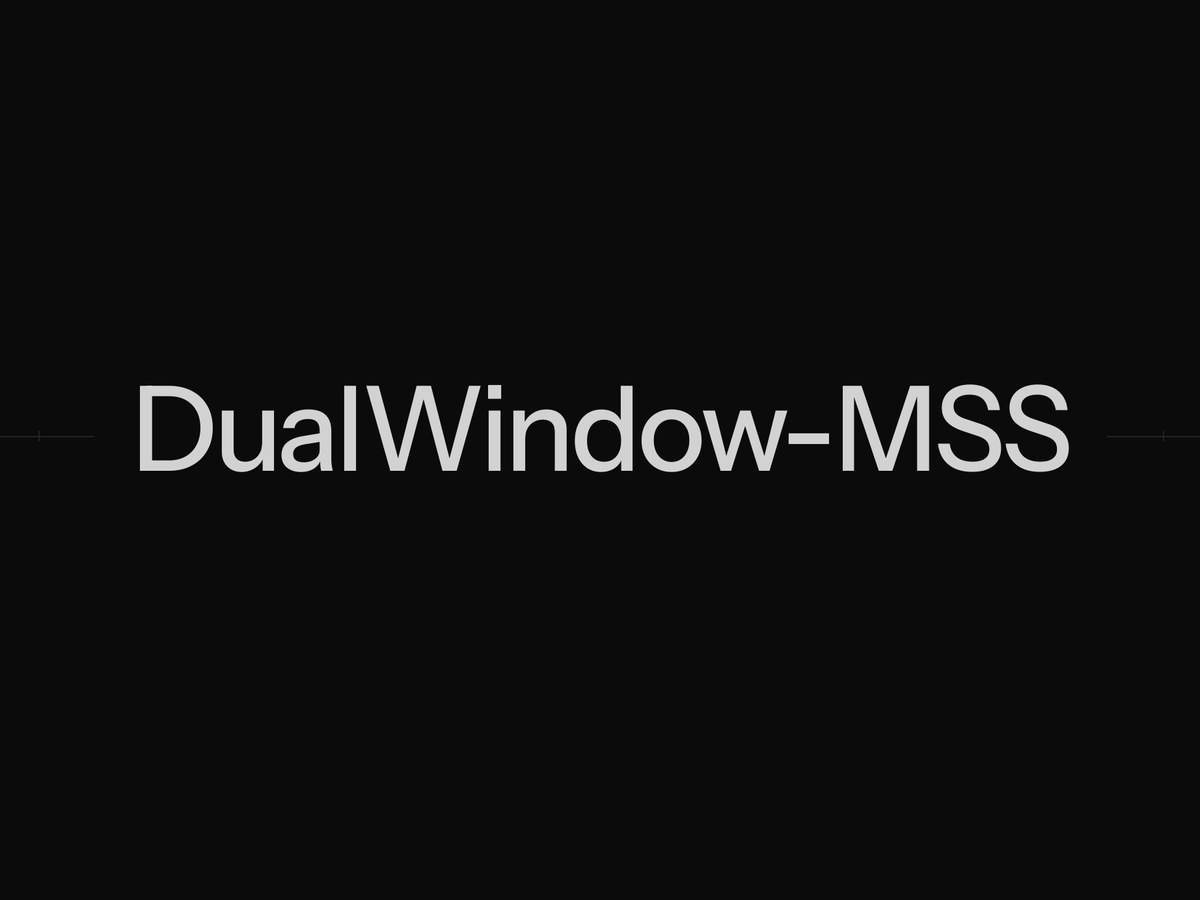
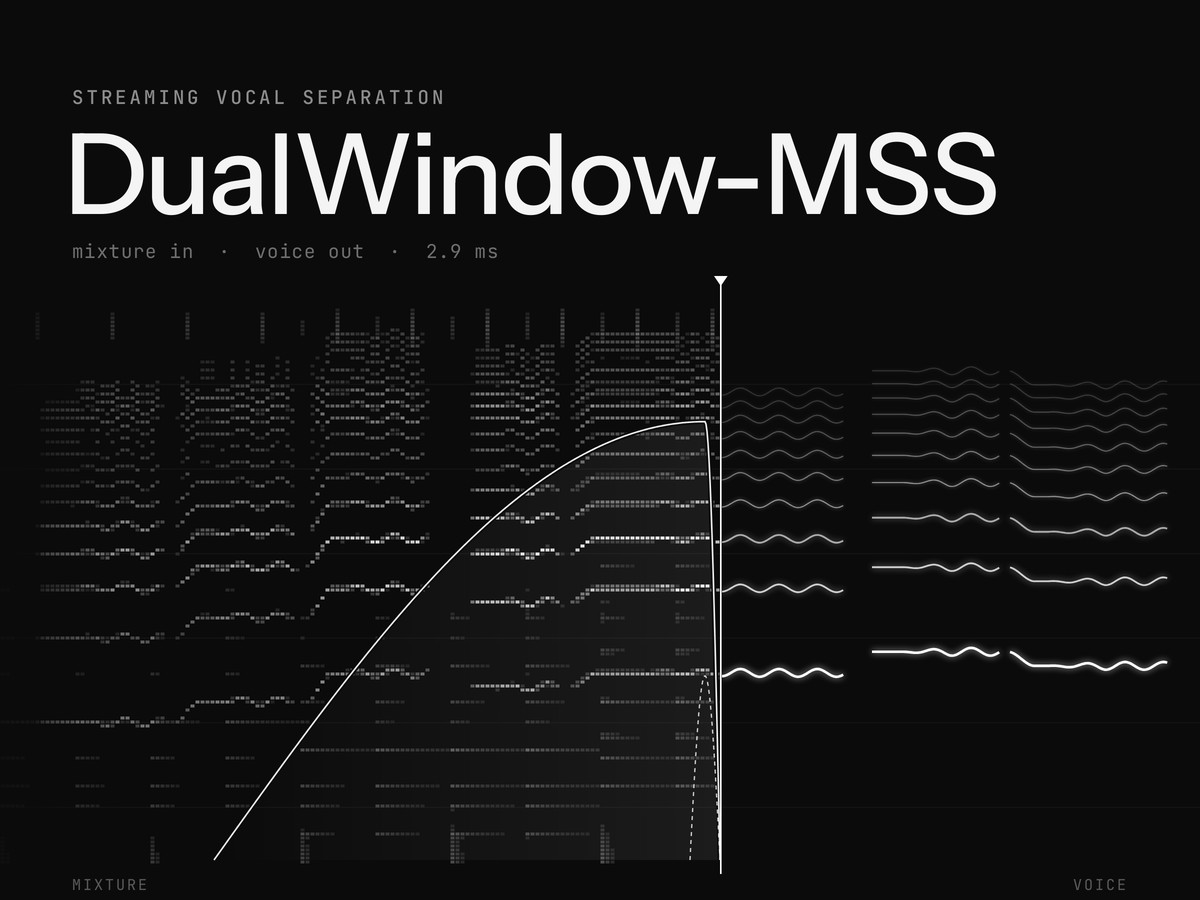
DualWindow-MSS card cover: a spectrogram where the mixture meets the streaming window and comes out as a clean singing voice

diff --git a/index.html b/index.html
@@ -404,7 +404,7 @@ body.gallery-canvas .gc-fit.is-visible { opacity: 1; visibility: visible; }
         </div>
       </article>
       <article class="card">
-        <a class="media" href="/projects/dualwindow-mss/" tabindex="-1" aria-hidden="true"><img src="images/projects/dualwindow-mss.jpg?v=title" alt="" width="1200" height="900" loading="lazy"></a>
+        <a class="media" href="/projects/dualwindow-mss/" tabindex="-1" aria-hidden="true"><img src="images/projects/dualwindow-mss.jpg?v=cover" alt="" width="1200" height="900" loading="lazy"></a>
         <div class="card-body">
           <h3><a href="/projects/dualwindow-mss/">DualWindow-MSS</a></h3>
           <p class="badge"><span aria-hidden="true">✦</span>independent research 2026</p>
